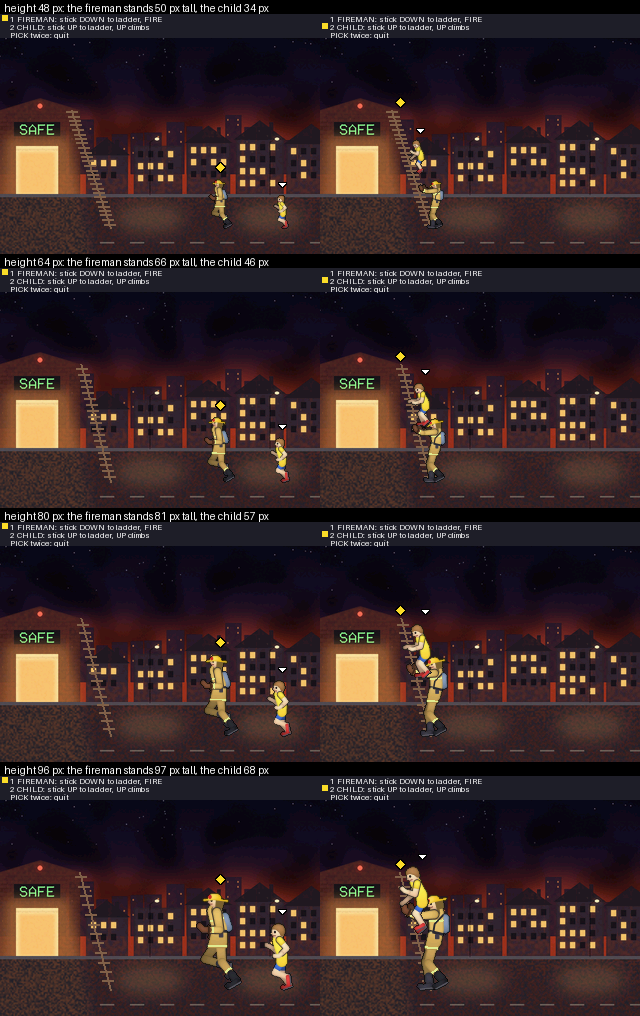
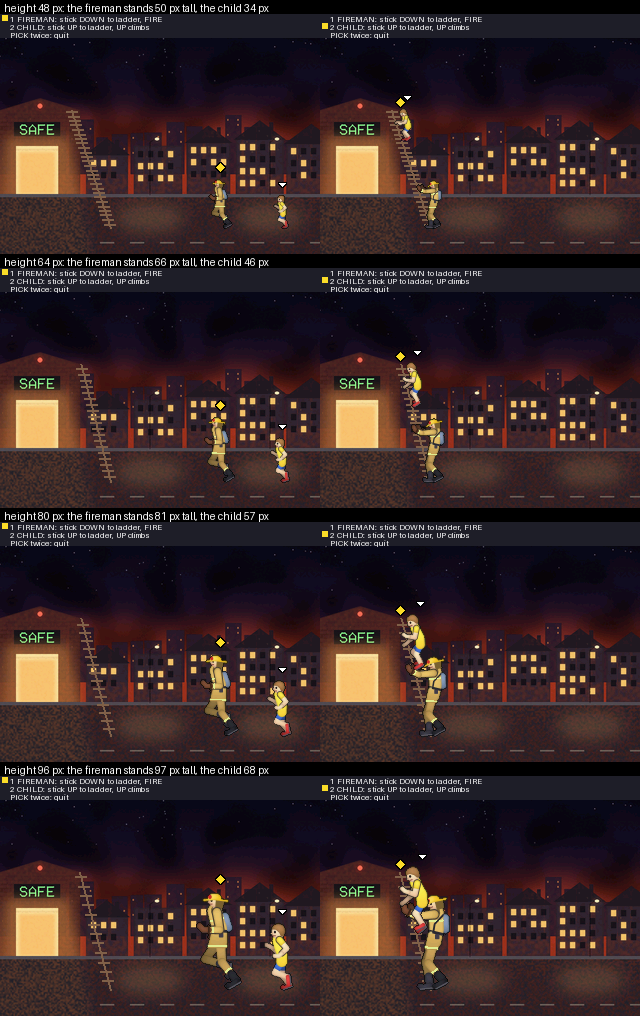
P900: the sheet of sizes is painted again with the places that follow the height (the night's build, the branch p906-height), so the child ends at the ladder's top at every height; C42 names the branch, the head's margin over the roof and where the first sheet is
Claude-Session: https://claude.ai/code/session_01FVemmesSSA2B8BGqKb9ug7

Changed region(s): [[0.625, 0.3356, 0.6875, 0.4882], [0.625, 0.6102, 0.6875, 0.7323], [0.625, 0.0915, 0.6875, 0.2441]]

diff --git a/docs/discovery/2026-11-18-p900-figures-game/sizes_sheet.py b/docs/discovery/2026-11-18-p900-figures-game/sizes_sheet.py
@@ -1,12 +1,12 @@
 """The ladder scene of P906 at four figure heights, for the PO's eye (P900, Q20: which height do the figures get?).
 
-Run it with a checkout of pixel-games master (92569c5 or later) as the working folder, and the CMU files in
-mocap.CMU_DIR:
+Run it with a checkout of pixel-games that holds the places for each height (the branch p906-height, 839cc45 or
+later) as the working folder, and the CMU files in mocap.CMU_DIR:
     python3 -B <this file> OUT.png
 It changes no file of the repository. This branch's own art/ is older than P906 and cannot paint the scene. Each row is one height: the round's start at the left, and the child at the
 climb's end at the right, each as art/mission.py's Storyboard.frame draws it, 320 by 240 px, with the bar's words in
-PIL's font and not the box's. The places are the ones set by eye for 96 px (art/mission.py), not moved for a smaller
-figure.
+PIL's font and not the box's. The places follow from the height (art/mission.py's places): at 96 px they are the
+ones set by eye, and the climb ends higher for a smaller child, so that its head is over the roof.
 """
 import argparse
 import sys
@@ -34,7 +34,7 @@ def main():
     draw = ImageDraw.Draw(sheet)
     for row, height in enumerate(HEIGHTS):
         painted = mission.painted(capture, height)
-        board = mission.Storyboard(painted, street)
+        board = mission.Storyboard(painted, street, height)
         top = row * (H + LABEL_H)
         boxes = {figure: painted[figure, "run"].size for figure in ("fireman", "child")}
         tall = {}

diff --git a/docs/discovery/2026-11-18-p900-figures-game/brief.md b/docs/discovery/2026-11-18-p900-figures-game/brief.md
@@ -81,7 +81,7 @@ e.g. `- [★C2] 13 of 526 tickets ask for recurring tasks · E tickets.csv:2-14 
 - [★C39] Both finished rounds of that play read 24.9 fps: 1,715 gaps in 68,821 ms and 422 gaps in 16,949 ms, with two 96 px figures that ran and a climb. These are the first rates of a real round · E https://github.com/xmejkal/pixel-games/blob/8da2af3/logs/run-p906-ladder-3.log#L105 and its line 145 (read 2026-11-19; calculated: gaps times 1,000 divided by ms gives 24.92 and 24.90) · caveat: two rounds of one sitting; the rate line of D46 is not read, because the plan reads it with 3 or more finished rounds after the first, and the log has one; the plan leaves a sitting's first round out of that line, so round 2 alone is of the kind that it reads, and round 1 holds all 5 slow gaps of the two rounds (`slow 5` in line 105, `slow 0` in line 145); the probe's own scene, with no effects and no sound, and not a game as heavy as Rescue (C30)
 - [C40] The wrong picks of the two finished rounds have two shapes. At the start of each round: a lean up and then a lean down, 600 ms and 440 ms later (`pick child wrong same ground`, then `pick fireman right switch ground`), each after an `act none click` 640 ms and 1,400 ms earlier. On the ladder, in round 2: a lean down 1,083 ms after the climb stopped at 42 px, and one 79 ms after it stopped at 49 px (`pick fireman wrong switch ladder`) · E https://github.com/xmejkal/pixel-games/blob/8da2af3/logs/run-p906-ladder-3.log#L79-L81, its lines 117 to 119, 129, 135, 138 and 139 (read 2026-11-19) · caveat: the log cannot tell a hand that flicks down from a stick that springs back past its middle, nor show whether a press of the stick's push-button tilts the stick; that the leans up come from the prototype's mapping is the facilitator's reading (H)
 - [C41] The figures of the walking skeleton run at half their captured speed, a start value of the approved plan: 99 px a second for the fireman and 54 for the child. The child's way from its start place to the ladder's foot is 165 px, which takes 3.1 s · E https://github.com/xmejkal/pixel-games/blob/71333b2/probe906_ladder.py#L117 (`PACE = 2`), and the captured speeds 199 and 108 that `art/mission.py` gives (painted 2026-11-19) · caveat: calculated from the places and the speeds, not timed on the box
-- [C42] On the Mac, the ladder scene of the walking skeleton is painted at the heights 48, 64, 80 and 96 px, with a round's start and the child at the climb's end for each height. The fireman's standing picture is 50, 66, 81 and 97 px tall, and the child's is 34, 46, 57 and 68 px · E `python3 -B sizes_sheet.py OUT.png` with pixel-games master 92569c5 as the working folder: its printed lines, and the picture [sizes-sheet.png](sizes-sheet.png), 640 by 1,016 px (run twice on 2026-11-20, and both pictures are the same bytes; the script is [sizes_sheet.py](sizes_sheet.py)) · caveat: a picture on the Mac and no pack on the box; the places and the climb's end are the ones set by eye for 96 px. The climb ends 54 px up at every height, so the child's top row is 29, 19 and 6 px under the roof's row at 48, 64 and 80 px, and 6 px over it at 96 px (measured by a script on 2026-11-20, and by the refuter). The fireman's hands reach the rail at every height (the refuter's measurement); the ladder's slant follows each height's climb, at 3 to 9, 3 to 12, 4 to 16 and 5 to 19 px; the child's height is not chosen on its own, and it is about 0.7 of the fireman's; the bar's words are in PIL's font and not the box's; the street is Rescue's; how the picture's size on a monitor compares with the box's screen is not measured; no bytes are counted and no rate is read
+- [C42] On the Mac, the ladder scene of the walking skeleton is painted at the heights 48, 64, 80 and 96 px, with a round's start and the child at the climb's end for each height. The fireman's standing picture is 50, 66, 81 and 97 px tall, and the child's is 34, 46, 57 and 68 px · E `python3 -B sizes_sheet.py OUT.png` with the pixel-games branch `p906-height` at 839cc45 as the working folder: its printed lines, and the picture [sizes-sheet.png](sizes-sheet.png), 640 by 1,016 px (run twice on 2026-11-20, and both pictures are the same bytes; the script is [sizes_sheet.py](sizes_sheet.py)) · caveat: a picture on the Mac and no pack on the box; the places follow from the height by `places(height)` of the night's build (D53), which is not merged and never ran on the box. At the climb's end the child's top drawn row is 6, 4, 2 and 2 px over the roof's row at 96, 80, 64 and 48 px (the build's own command, printed on 2026-11-20). The first sheet used 96 px's places at every height, and its small rows ended the climb under the roof: it is in the commit 3953c33; the ladder's slant follows each height's climb, at 3 to 9, 3 to 12, 4 to 16 and 5 to 19 px; the child's height is not chosen on its own, and it is about 0.7 of the fireman's; the bar's words are in PIL's font and not the box's; the street is Rescue's; how the picture's size on a monitor compares with the box's screen is not measured; no bytes are counted and no rate is read
 
 ## Options <!-- CLAIMS -->
 <!-- Two or three per open decision: decision · option · cost · what it would prove · opinion (whose), then the tag
